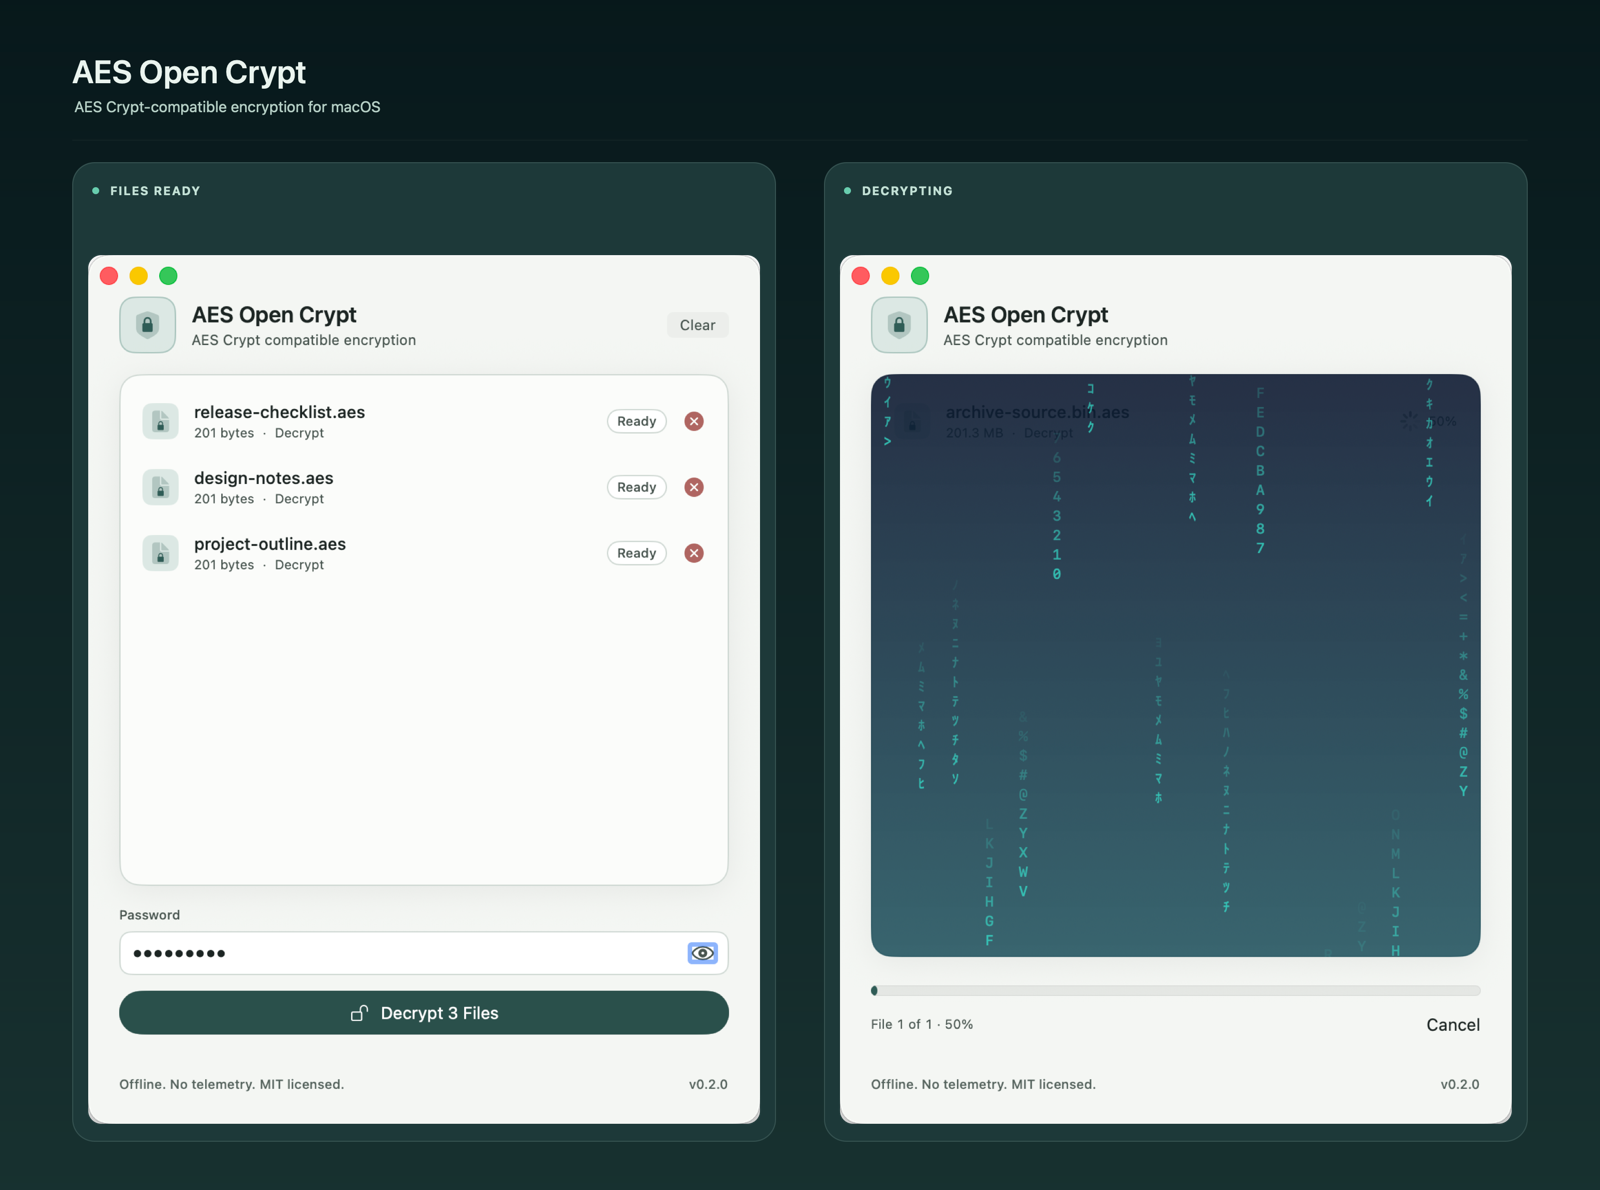
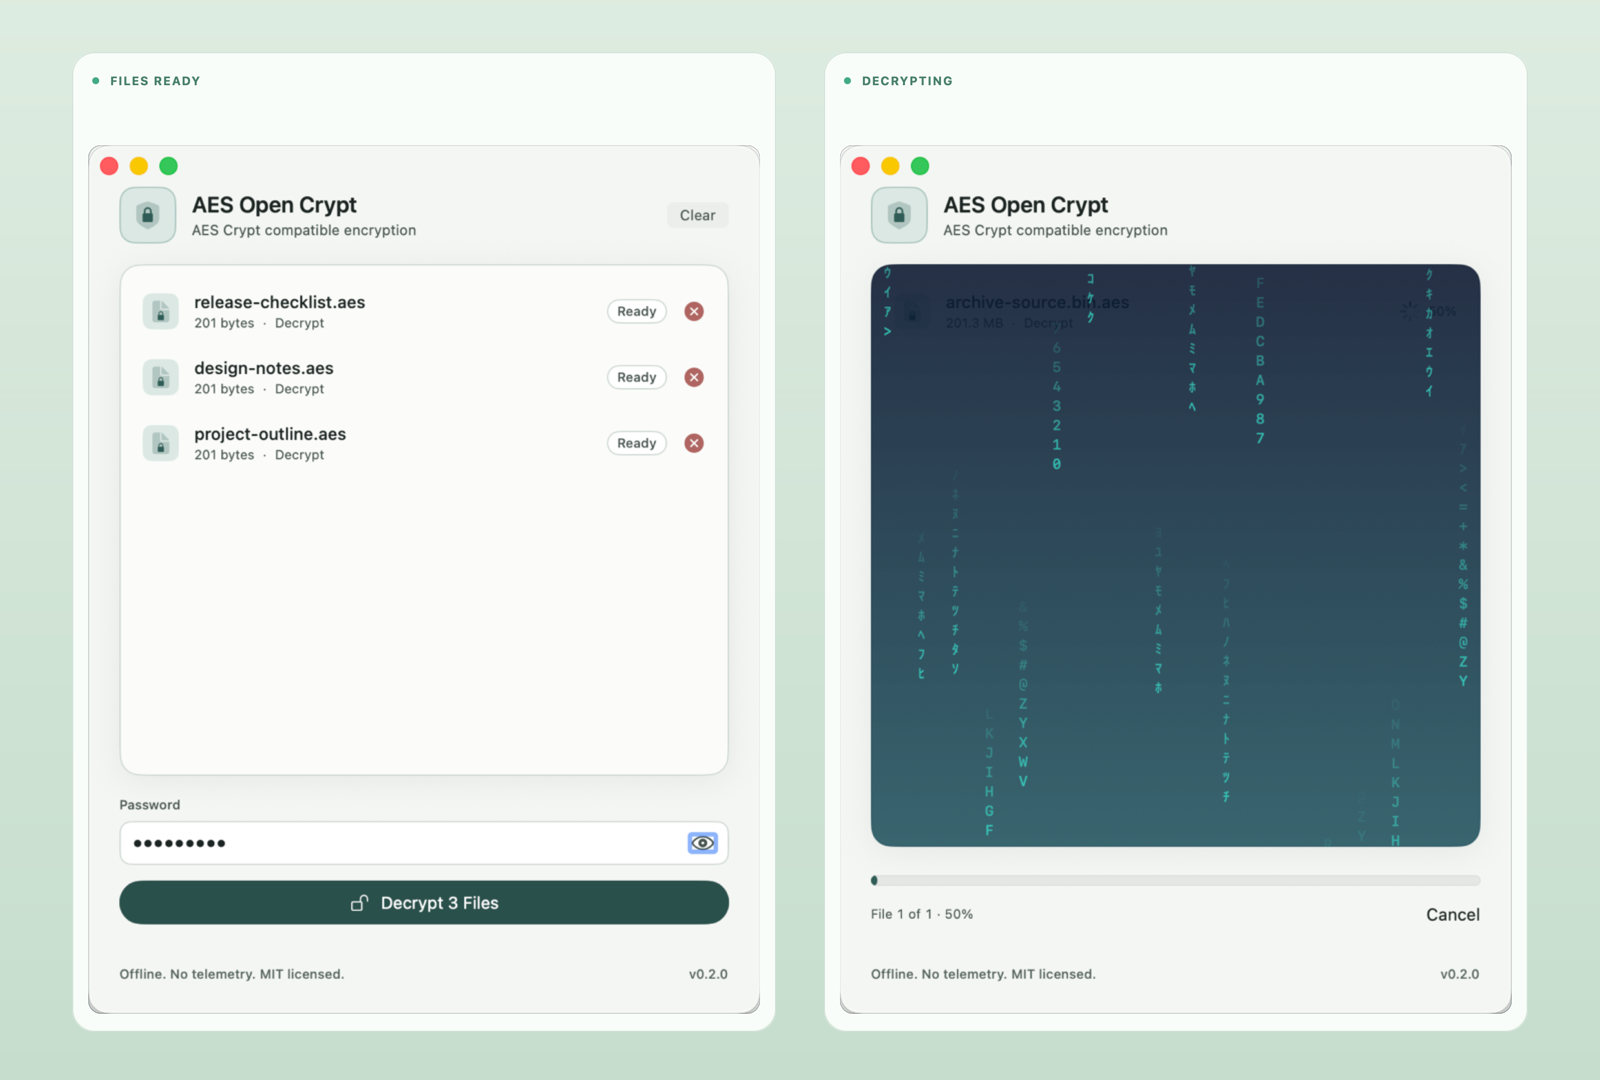
Polish README presentation

diff --git a/README.md b/README.md
@@ -2,35 +2,42 @@
   <img src="docs/assets/readme-banner.png" alt="AES Open Crypt">
 </p>
 
+# AES Open Crypt
+
 <p align="center">
   <img src="docs/assets/app-screenshot.png" width="800" alt="AES Open Crypt with files ready to decrypt and a matrix animation during decryption">
 </p>
-
-# AES Open Crypt
 
 Open-source macOS app and CLI for AES Crypt `.aes` files. Reads stream formats
 0–3 and writes format 3 by default or format 2 for older AES Crypt versions.
 No telemetry, network access, or password storage.
 
-## Download
+<p align="center">
+  <a href="https://github.com/seriykot/aes-open-crypt/releases/tag/v0.2.0"><img src="https://img.shields.io/badge/release-v0.2.0-286b57" alt="Release 0.2.0"></a>
+  <img src="https://img.shields.io/badge/macOS-13%2B-286b57?logo=apple&logoColor=white" alt="macOS 13 or later">
+  <a href="LICENSE"><img src="https://img.shields.io/badge/license-MIT-286b57" alt="MIT License"></a>
+</p>
 
-[0.2.0 installer (.pkg)](https://github.com/seriykot/aes-open-crypt/releases/download/v0.2.0/AES.Open.Crypt.0.2.0.pkg) ·
-[Portable app (.zip)](https://github.com/seriykot/aes-open-crypt/releases/download/v0.2.0/AES.Open.Crypt.0.2.0.zip) ·
-[Checksums](https://github.com/seriykot/aes-open-crypt/releases/download/v0.2.0/SHA256SUMS.txt)
+## 📦 Download
 
-Requires macOS 13 or later; both Apple silicon and Intel are supported. The app
-and CLI are ad-hoc signed; the installer is unsigned. This release is not
-notarized, so Gatekeeper may warn or block launch.
+- [Installer (.pkg)](https://github.com/seriykot/aes-open-crypt/releases/download/v0.2.0/AES.Open.Crypt.0.2.0.pkg)
+- [Portable app (.zip)](https://github.com/seriykot/aes-open-crypt/releases/download/v0.2.0/AES.Open.Crypt.0.2.0.zip)
+- [SHA-256 checksums](https://github.com/seriykot/aes-open-crypt/releases/download/v0.2.0/SHA256SUMS.txt)
 
-## Features
+Supports Apple silicon and Intel. The app and CLI are ad-hoc signed; the
+installer is unsigned. The release is not notarized, so Gatekeeper may warn
+or block launch.
 
-- Drag or choose up to 10 files; `.aes` files are decrypted and other files encrypted.
-- Finder Services and a command-line tool (`aesopen`) are included.
+## ✨ Features
+
+- Drag or choose up to 10 files; `.aes` files are decrypted and other files
+  encrypted.
+- Finder Services and the `aesopen` command-line tool are included.
 - Outputs never overwrite existing files; wrong passwords and corrupt files
   leave no partial output.
 - Optional password hints are stored in plaintext; never put a password in one.
 
-## Testing
+## 🧪 Testing
 
 - **AES Crypt versions:** 3.14 command-line tool and 4.7.0. Cross-checks cover
   format 2 with 3.14, and formats 2 and 3 with 4.7.0.
@@ -40,9 +47,9 @@ notarized, so Gatekeeper may warn or block launch.
 - **Real-world files:** encrypted and decrypted 11 local files, with exact
   matches and originals unchanged: 1 DOC, 2 DOCX, 3 PDF, 1 JPG, 1 RTF,
   2 ZIP, and 1 MP4. Private filenames and file contents are not published.
-- `swift test` passes 97 tests.
+- **Unit tests:** `swift test` passes 97 tests.
 
-## Build
+## 🛠 Build
 
 Requires Xcode 26 and Swift 6.2.
 
@@ -52,6 +59,6 @@ swift test
 ./scripts/build-pkg.sh
 ```
 
-## License
+## 📄 License
 
 MIT. Independent of AES Crypt and Packetizer.
